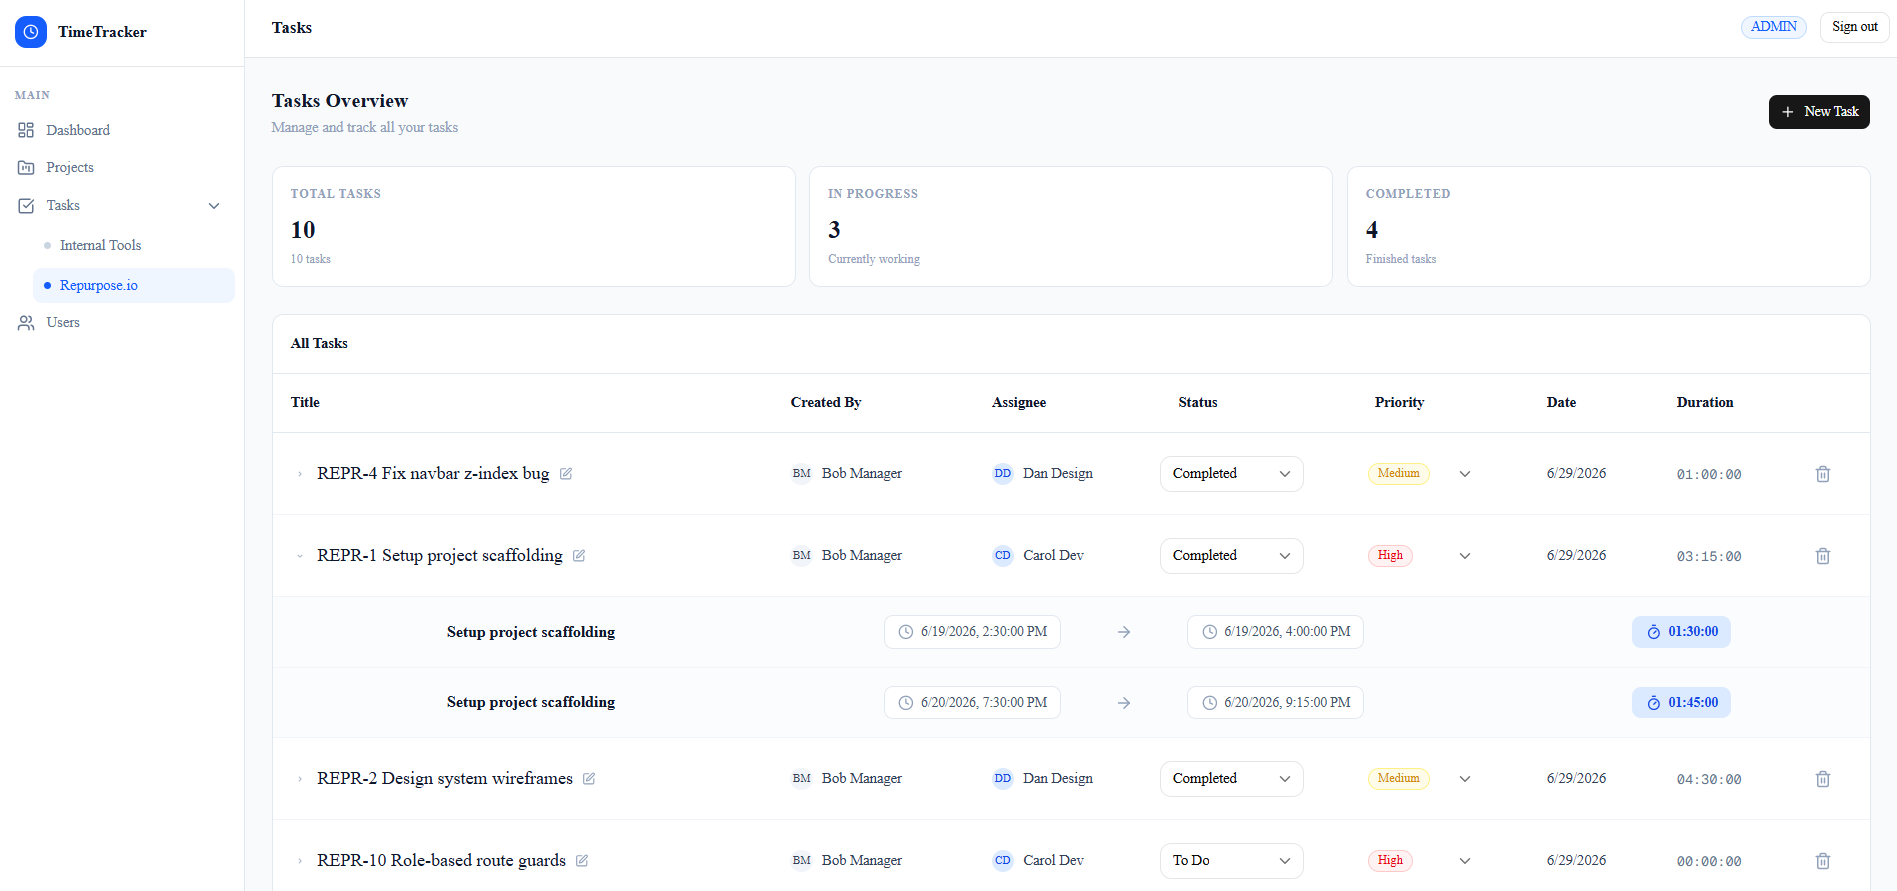
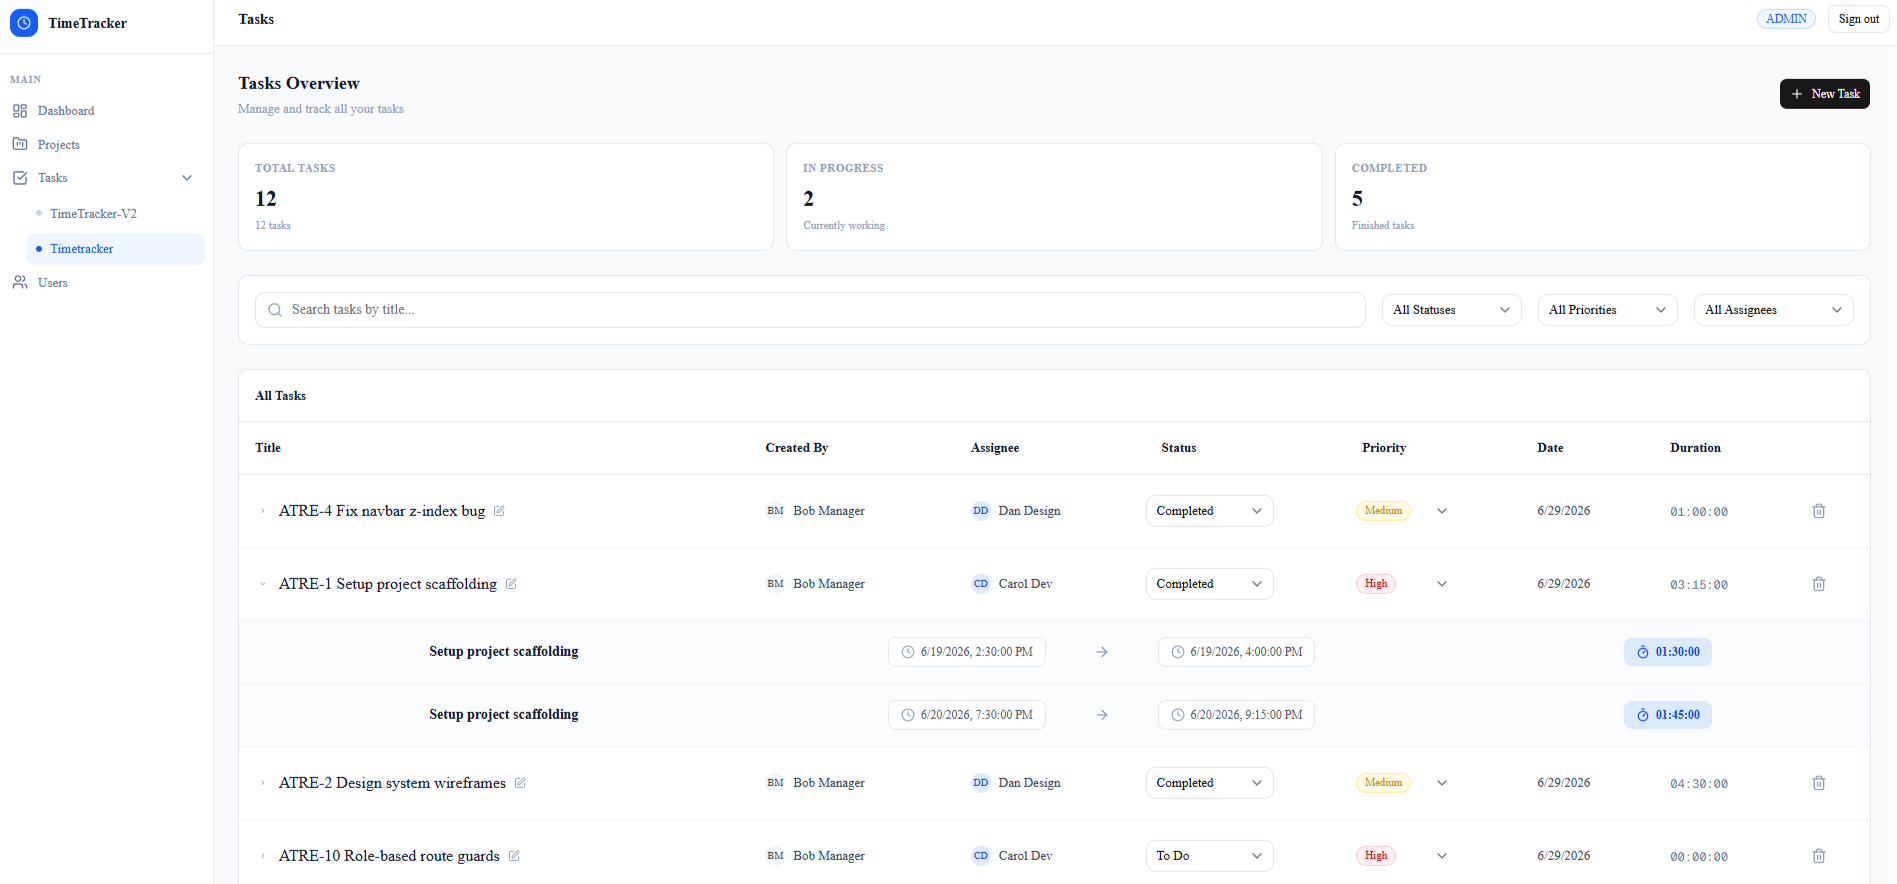
Change login and register page content also add images in landing page

diff --git a/components/auth/AuthLayout.jsx b/components/auth/AuthLayout.jsx
@@ -1,6 +1,30 @@
 "use client";
-import { Clock } from "lucide-react";
+import { Clock, LayoutDashboard, TimerReset, Users } from "lucide-react";
 import Link from "next/link";
+
+const features = [
+  {
+    icon: LayoutDashboard,
+    title: "Projects & tasks",
+    desc: "Create projects, assign tasks with priority and due dates.",
+  },
+  {
+    icon: TimerReset,
+    title: "Time logs per task",
+    desc: "Start and stop timers on tasks. Duration tracked automatically.",
+  },
+  {
+    icon: Users,
+    title: "Team activity dashboard",
+    desc: "See who's active and hours logged today.",
+  },
+];
+
+const roles = [
+  { name: "Admin", desc: "Full control over users & org" },
+  { name: "Manager", desc: "Manages projects & tasks" },
+  { name: "User", desc: "Logs time on assigned tasks" },
+];
 
 const AuthLayout = ({ children, activeTab }) => {
   return (
@@ -27,54 +51,58 @@ const AuthLayout = ({ children, activeTab }) => {
         </div>
 
         {/* Brand */}
-        <div className="relative space-y-5">
-          <div className="inline-flex items-center gap-1.5 bg-blue-500/10 border border-blue-500/20 rounded px-2 py-1">
-            <div className="w-1.5 h-1.5 rounded-full bg-blue-400" />
-            <span className="text-[10px] font-medium text-blue-400 uppercase tracking-widest">
-              Enterprise Ready
-            </span>
-          </div>
-
+        <div className="relative space-y-4">
           <div className="text-[10px] font-medium text-blue-400 uppercase tracking-widest">
             Project & Time Management
           </div>
 
           <h2 className="text-[2.2rem] font-semibold text-white leading-tight tracking-tight">
-            One platform.
-            <br />
-            <span className="text-blue-400">Every deadline.</span>
+            Track work.<br />
+            <span className="text-blue-400">Ship on time.</span>
           </h2>
 
           <p className="text-[13px] text-white/40 leading-relaxed max-w-[280px] font-light">
-            Manage projects, assign tasks, and track time — all in one place.
-            Built for teams that ship.
+            Manage projects, assign tasks, and log time — all in one place.
           </p>
-        </div>
 
-        {/* Features */}
-        <div className="relative space-y-2.5">
-          {[
-            "Role-based access — Admin, Manager, User",
-            "Real-time timer with automatic duration",
-            "Project & task management in one place",
-            "Secure authentication with refresh tokens",
-          ].map((feature) => (
-            <div key={feature} className="flex items-center gap-2.5">
-              <div className="w-[18px] h-[18px] rounded-full bg-blue-500/20 border border-blue-400/20 flex items-center justify-center flex-shrink-0">
-                <svg width="8" height="8" viewBox="0 0 8 8" fill="none">
-                  <path
-                    d="M1.5 4L3 5.5L6.5 2"
-                    stroke="#60a5fa"
-                    strokeWidth="1.2"
-                    strokeLinecap="round"
-                  />
-                </svg>
+          {/* Features */}
+          <div className="space-y-2 pt-2">
+            {features.map(({ icon: Icon, title, desc }) => (
+              <div
+                key={title}
+                className="flex items-start gap-3 bg-white/[0.03] border border-white/[0.06] rounded-lg px-3.5 py-3"
+              >
+                <div className="w-[30px] h-[30px] rounded-md bg-blue-500/10 border border-blue-400/15 flex items-center justify-center flex-shrink-0 mt-0.5">
+                  <Icon className="w-3.5 h-3.5 text-blue-400" />
+                </div>
+                <div>
+                  <div className="text-[12.5px] font-medium text-white/80 leading-tight">
+                    {title}
+                  </div>
+                  <div className="text-[11.5px] text-white/30 font-light leading-snug mt-0.5">
+                    {desc}
+                  </div>
+                </div>
               </div>
-              <span className="text-[12px] text-white/40 font-light">
-                {feature}
-              </span>
-            </div>
-          ))}
+            ))}
+          </div>
+
+          {/* Roles */}
+          <div className="flex gap-2 pt-1">
+            {roles.map(({ name, desc }) => (
+              <div
+                key={name}
+                className="flex-1 bg-white/[0.03] border border-white/[0.06] rounded-lg px-2.5 py-2.5 text-center"
+              >
+                <div className="text-[11px] font-semibold text-blue-400 tracking-wide">
+                  {name}
+                </div>
+                <div className="text-[10px] text-white/25 font-light leading-snug mt-0.5">
+                  {desc}
+                </div>
+              </div>
+            ))}
+          </div>
         </div>
 
         <div className="relative text-[11px] text-white/20 font-light">
@@ -85,7 +113,6 @@ const AuthLayout = ({ children, activeTab }) => {
       {/* Right Panel */}
       <div className="flex-1 bg-slate-50 flex items-center justify-center p-8">
         <div className="w-full max-w-[360px]">
-          {/* Mobile Logo */}
           <div className="flex items-center gap-2 mb-8 lg:hidden">
             <div className="w-8 h-8 bg-blue-600 rounded-lg flex items-center justify-center">
               <Clock className="w-4 h-4 text-white" />
@@ -93,31 +120,27 @@ const AuthLayout = ({ children, activeTab }) => {
             <span className="font-semibold text-slate-800">TimeTracker</span>
           </div>
 
-          {/* Tabs */}
           <div className="flex border-b border-slate-200 mb-6">
             <Link
               href="/login"
-              className={`pb-2 mr-6 text-[13px] font-medium border-b-2 -mb-px transition-colors ${
-                activeTab === "login"
-                  ? "border-blue-600 text-slate-900"
-                  : "border-transparent text-slate-400 hover:text-slate-600"
-              }`}
+              className={`pb-2 mr-6 text-[13px] font-medium border-b-2 -mb-px transition-colors ${activeTab === "login"
+                ? "border-blue-600 text-slate-900"
+                : "border-transparent text-slate-400 hover:text-slate-600"
+                }`}
             >
               Sign in
             </Link>
             <Link
               href="/register"
-              className={`pb-2 text-[13px] font-medium border-b-2 -mb-px transition-colors ${
-                activeTab === "register"
-                  ? "border-blue-600 text-slate-900"
-                  : "border-transparent text-slate-400 hover:text-slate-600"
-              }`}
+              className={`pb-2 text-[13px] font-medium border-b-2 -mb-px transition-colors ${activeTab === "register"
+                ? "border-blue-600 text-slate-900"
+                : "border-transparent text-slate-400 hover:text-slate-600"
+                }`}
             >
               Create account
             </Link>
           </div>
 
-          {/* Form */}
           {children}
         </div>
       </div>

diff --git a/components/auth/RegisterForm.jsx b/components/auth/RegisterForm.jsx
@@ -166,33 +166,6 @@ export default function RegisterForm() {
           )}
         </Button>
       </form>
-
-      <div className="flex items-center gap-2.5 my-4">
-        <div className="flex-1 h-px bg-slate-200" />
-        <span className="text-[11px] text-slate-300 font-medium">OR</span>
-        <div className="flex-1 h-px bg-slate-200" />
-      </div>
-
-      <button className="w-full h-9 bg-white border border-slate-200 rounded-md text-[13px] font-medium text-slate-600 flex items-center justify-center gap-2 hover:border-slate-300 transition-colors">
-        <svg width="14" height="14" viewBox="0 0 14 14" fill="none">
-          <rect x="1" y="1" width="5" height="5" rx="1" fill="#4285F4" />
-          <rect x="8" y="1" width="5" height="5" rx="1" fill="#EA4335" />
-          <rect x="1" y="8" width="5" height="5" rx="1" fill="#34A853" />
-          <rect x="8" y="8" width="5" height="5" rx="1" fill="#FBBC05" />
-        </svg>
-        Continue with Google
-      </button>
-
-      <p className="mt-4 text-[11px] text-slate-300 text-center leading-relaxed">
-        By creating an account, you agree to our{" "}
-        <Link href="/terms" className="text-slate-400 hover:text-slate-600">
-          Terms of Service
-        </Link>{" "}
-        and{" "}
-        <Link href="/privacy" className="text-slate-400 hover:text-slate-600">
-          Privacy Policy
-        </Link>
-      </p>
     </div>
   );
 }

diff --git a/components/auth/LoginForm.jsx b/components/auth/LoginForm.jsx
@@ -136,33 +136,6 @@ export default function LoginForm() {
           )}
         </Button>
       </form>
-
-      <div className="flex items-center gap-2.5 my-4">
-        <div className="flex-1 h-px bg-slate-200" />
-        <span className="text-[11px] text-slate-300 font-medium">OR</span>
-        <div className="flex-1 h-px bg-slate-200" />
-      </div>
-
-      <button className="w-full h-9 bg-white border border-slate-200 rounded-md text-[13px] font-medium text-slate-600 flex items-center justify-center gap-2 hover:border-slate-300 transition-colors">
-        <svg width="14" height="14" viewBox="0 0 14 14" fill="none">
-          <rect x="1" y="1" width="5" height="5" rx="1" fill="#4285F4" />
-          <rect x="8" y="1" width="5" height="5" rx="1" fill="#EA4335" />
-          <rect x="1" y="8" width="5" height="5" rx="1" fill="#34A853" />
-          <rect x="8" y="8" width="5" height="5" rx="1" fill="#FBBC05" />
-        </svg>
-        Continue with Google
-      </button>
-
-      <p className="mt-4 text-[11px] text-slate-300 text-center leading-relaxed">
-        By signing in, you agree to our{" "}
-        <Link href="/terms" className="text-slate-400 hover:text-slate-600">
-          Terms of Service
-        </Link>{" "}
-        and{" "}
-        <Link href="/privacy" className="text-slate-400 hover:text-slate-600">
-          Privacy Policy
-        </Link>
-      </p>
     </div>
   );
 }
